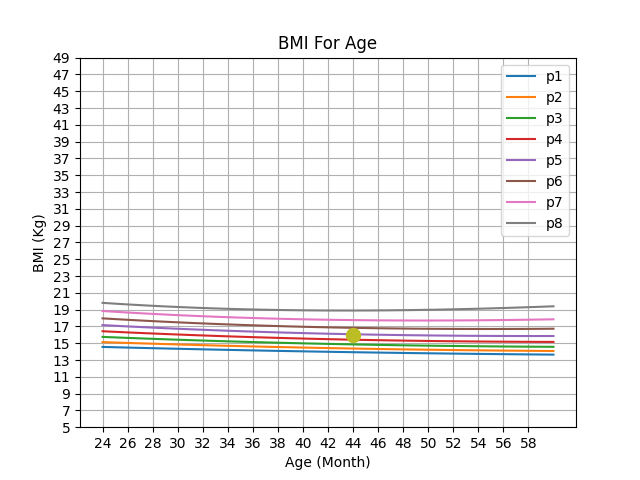
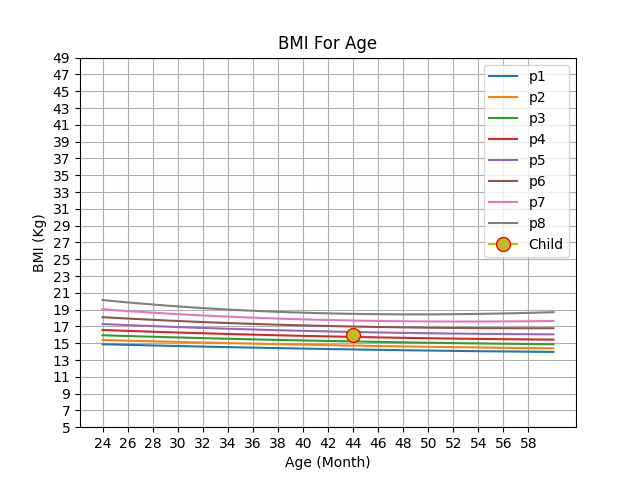
Validate the BMI and weight value

diff --git a/cactusApp/views.py b/cactusApp/views.py
@@ -16,6 +16,22 @@ def index(request):
         childgender = request.POST.get("childgender")
         childdate = request.POST["childdate"]
 
+        print('/////////////////')
+        print(datetime.datetime.now())
+        c = datetime.datetime.now()
+        z = c.strftime("%Y-%m-%d")
+        d1 = datetime.datetime.strptime(z, "%Y-%m-%d")
+        d2 = datetime.datetime.strptime(childdate, "%Y-%m-%d")
+
+        age = abs((d2 - d1).days)
+        print(age/30.4374)
+        print(d1.month)
+        print(d2.month)
+
+        if (age/30.4374) < 24 or (age/30.4374) > 60:
+            return JsonResponse({"error": "Child age should be in between 2 and 5 years old."})
+
+
         child = Child(name=childname, user=request.user, gender=childgender, birthday=childdate)
         child.save()
 
@@ -63,6 +79,12 @@ def kid_view(request, kid_id):
 
         bmi = float(weight) / ((float(height) / 100.0))**2
 
+        if bmi > 40:
+            return JsonResponse({"error": "BMI value is too high."})
+
+        if weight > 40:
+            return JsonResponse({"error": "Weight value is too high."})
+
         print(kids.birthday)
         c = kids.birthday
         z = c.strftime("%Y-%m-%d")
@@ -78,7 +100,7 @@ def kid_view(request, kid_id):
 
         measurement = Measurement(weight=weight, height=height,
                                   head_circumference=head_circumference, date=date,
-                                  child=kids, age=(age/30.4374), bmi=round(bmi, 2))
+                                  child=kids, age=(round(age/30.4374, 1)), bmi=round(bmi, 2))
         measurement.save()
 
         return redirect('charts', kid_id=kid_id)
@@ -96,13 +118,28 @@ def kid_view(request, kid_id):
 
 def chart_weight(request, kid_id):
     child = Child.objects.get(pk=kid_id)
+    measurements = Measurement.objects.filter(child=child)
+    bmi_list = []
+    weight_list = []
+    age_list = []
+    for measure in measurements:
+        bmi_list.append(measure.bmi)
+        weight_list.append(measure.weight)
+        age_list.append(measure.age)
+
+    print('//////////////////')
+    print(bmi_list)
+    print('@@@@@@@@@@@@@@')
+    print(age_list)
+    print('%%%%%%%%%%%%%%')
+    print(weight_list)
 
     if child.gender == 'boy':
-        draw('zwtage_m.csv', "Weight For Age", 'Weight (Kg)', 'Age (Month)', 9, 44, 'wfa')
-        draw('zbmiage_m.csv', "BMI For Age", 'BMI (Kg)', 'Age (Month)', 16, 44, 'bfa')
+        draw('zwtage_m.csv', "Weight For Age", 'Weight (Kg)', 'Age (Month)', weight_list, age_list, 'wfa')
+        draw('zbmiage_m.csv', "BMI For Age", 'BMI (Kg)', 'Age (Month)', [16], [44], 'bfa')
     else:
-        draw('zwtage_f.csv', "Weight For Age", 'Weight (Kg)', 'Age (Month)', 9, 44, 'wfa')
-        draw('zbmiage_f.csv', "BMI For Age", 'BMI (Kg)', 'Age (Month)', 16, 44, 'bfa')
+        draw('zwtage_f.csv', "Weight For Age", 'Weight (Kg)', 'Age (Month)', weight_list, age_list, 'wfa')
+        draw('zbmiage_f.csv', "BMI For Age", 'BMI (Kg)', 'Age (Month)', [16], [44], 'bfa')
 
     return render(request, 'cactusApp/child_chart.html')
 

diff --git a/cactusApp/getData.py b/cactusApp/getData.py
@@ -31,13 +31,8 @@ def getData(file_path):
 
 
     return age, p1, p2, p3, p4, p5, p6, p7, p8
-# data\zwtage_m.csv'
-# x = np.array([0, 6])
-# y = np.array([0, 250])
-# y1 = np.array([3, 100])
-#
-# plt.axis([5, 20, 20, 40])
-# plt.plot(x, y)
+
+
 def draw(data, title, y_lable, x_lable, child_value, child_age, img_name):
     workpath = os.path.dirname(os.path.abspath(__file__))
     age, p1, p2, p3, p4, p5, p6, p7, p8 = getData(data)
@@ -50,7 +45,7 @@ def draw(data, title, y_lable, x_lable, child_value, child_age, img_name):
     plt.plot(age, p7, label='p7')
     plt.plot(age, p8, label='p8')
 
-    plt.plot([child_age], [child_value], 'o', ms = 10)
+    plt.plot(child_age, child_value, marker='o', ms=10, mec='r', label='Child')
     plt.title(title)
     plt.ylabel(y_lable)
     plt.xlabel(x_lable)
